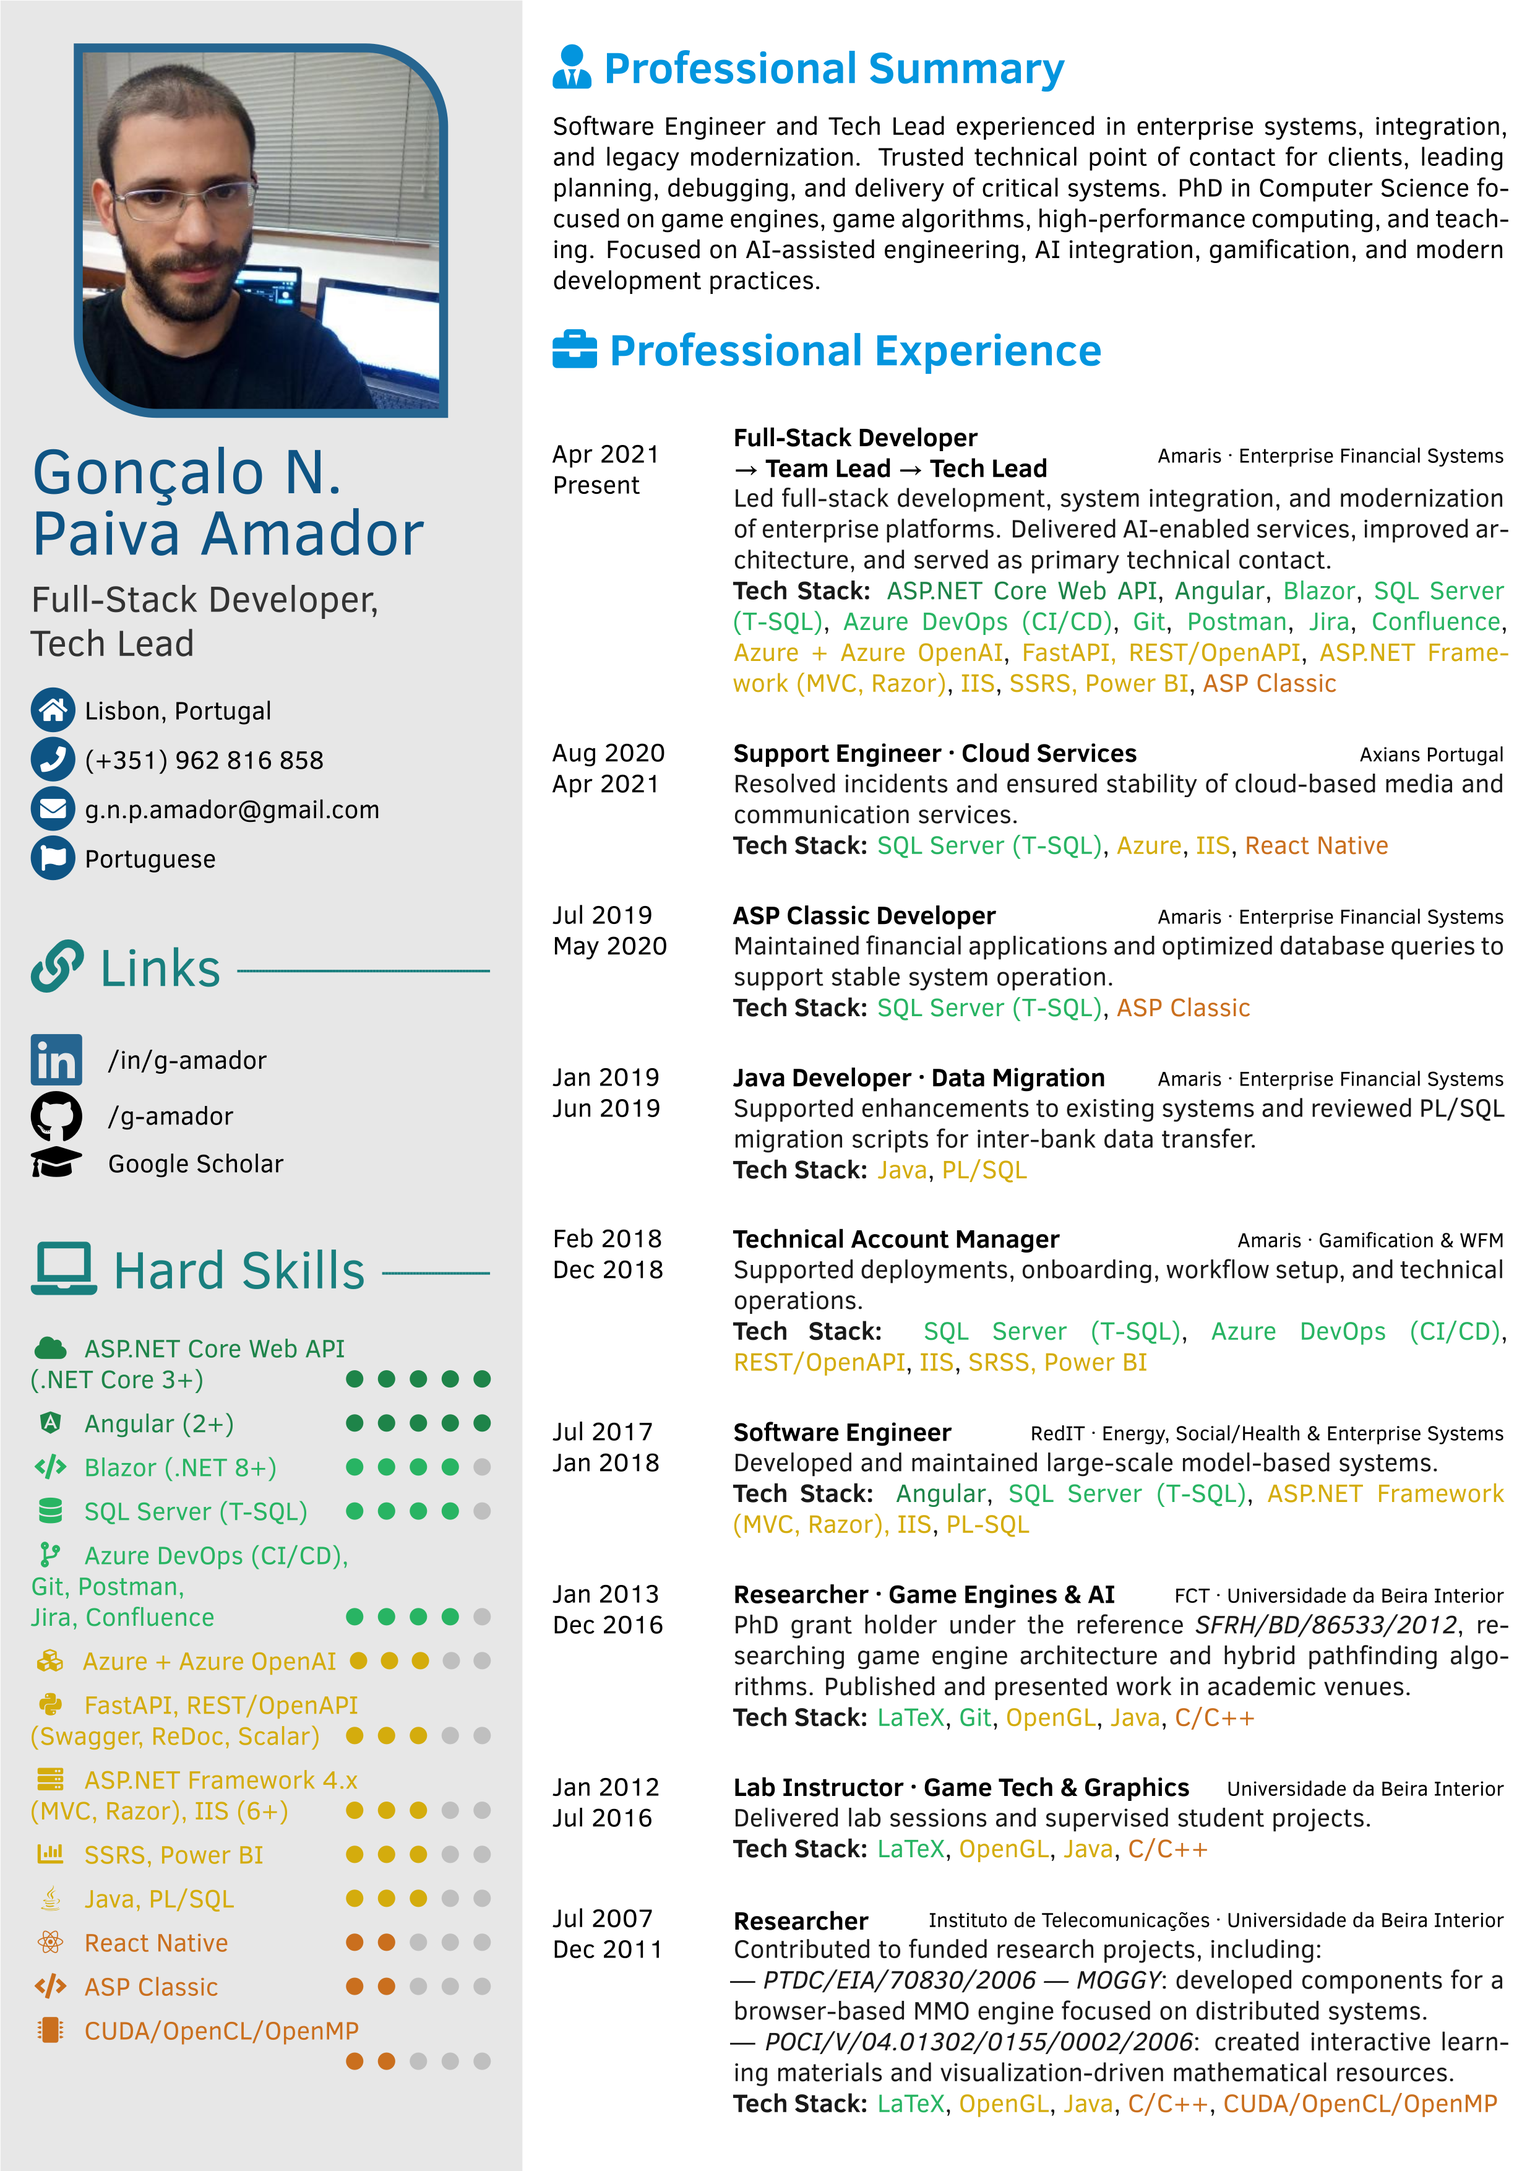
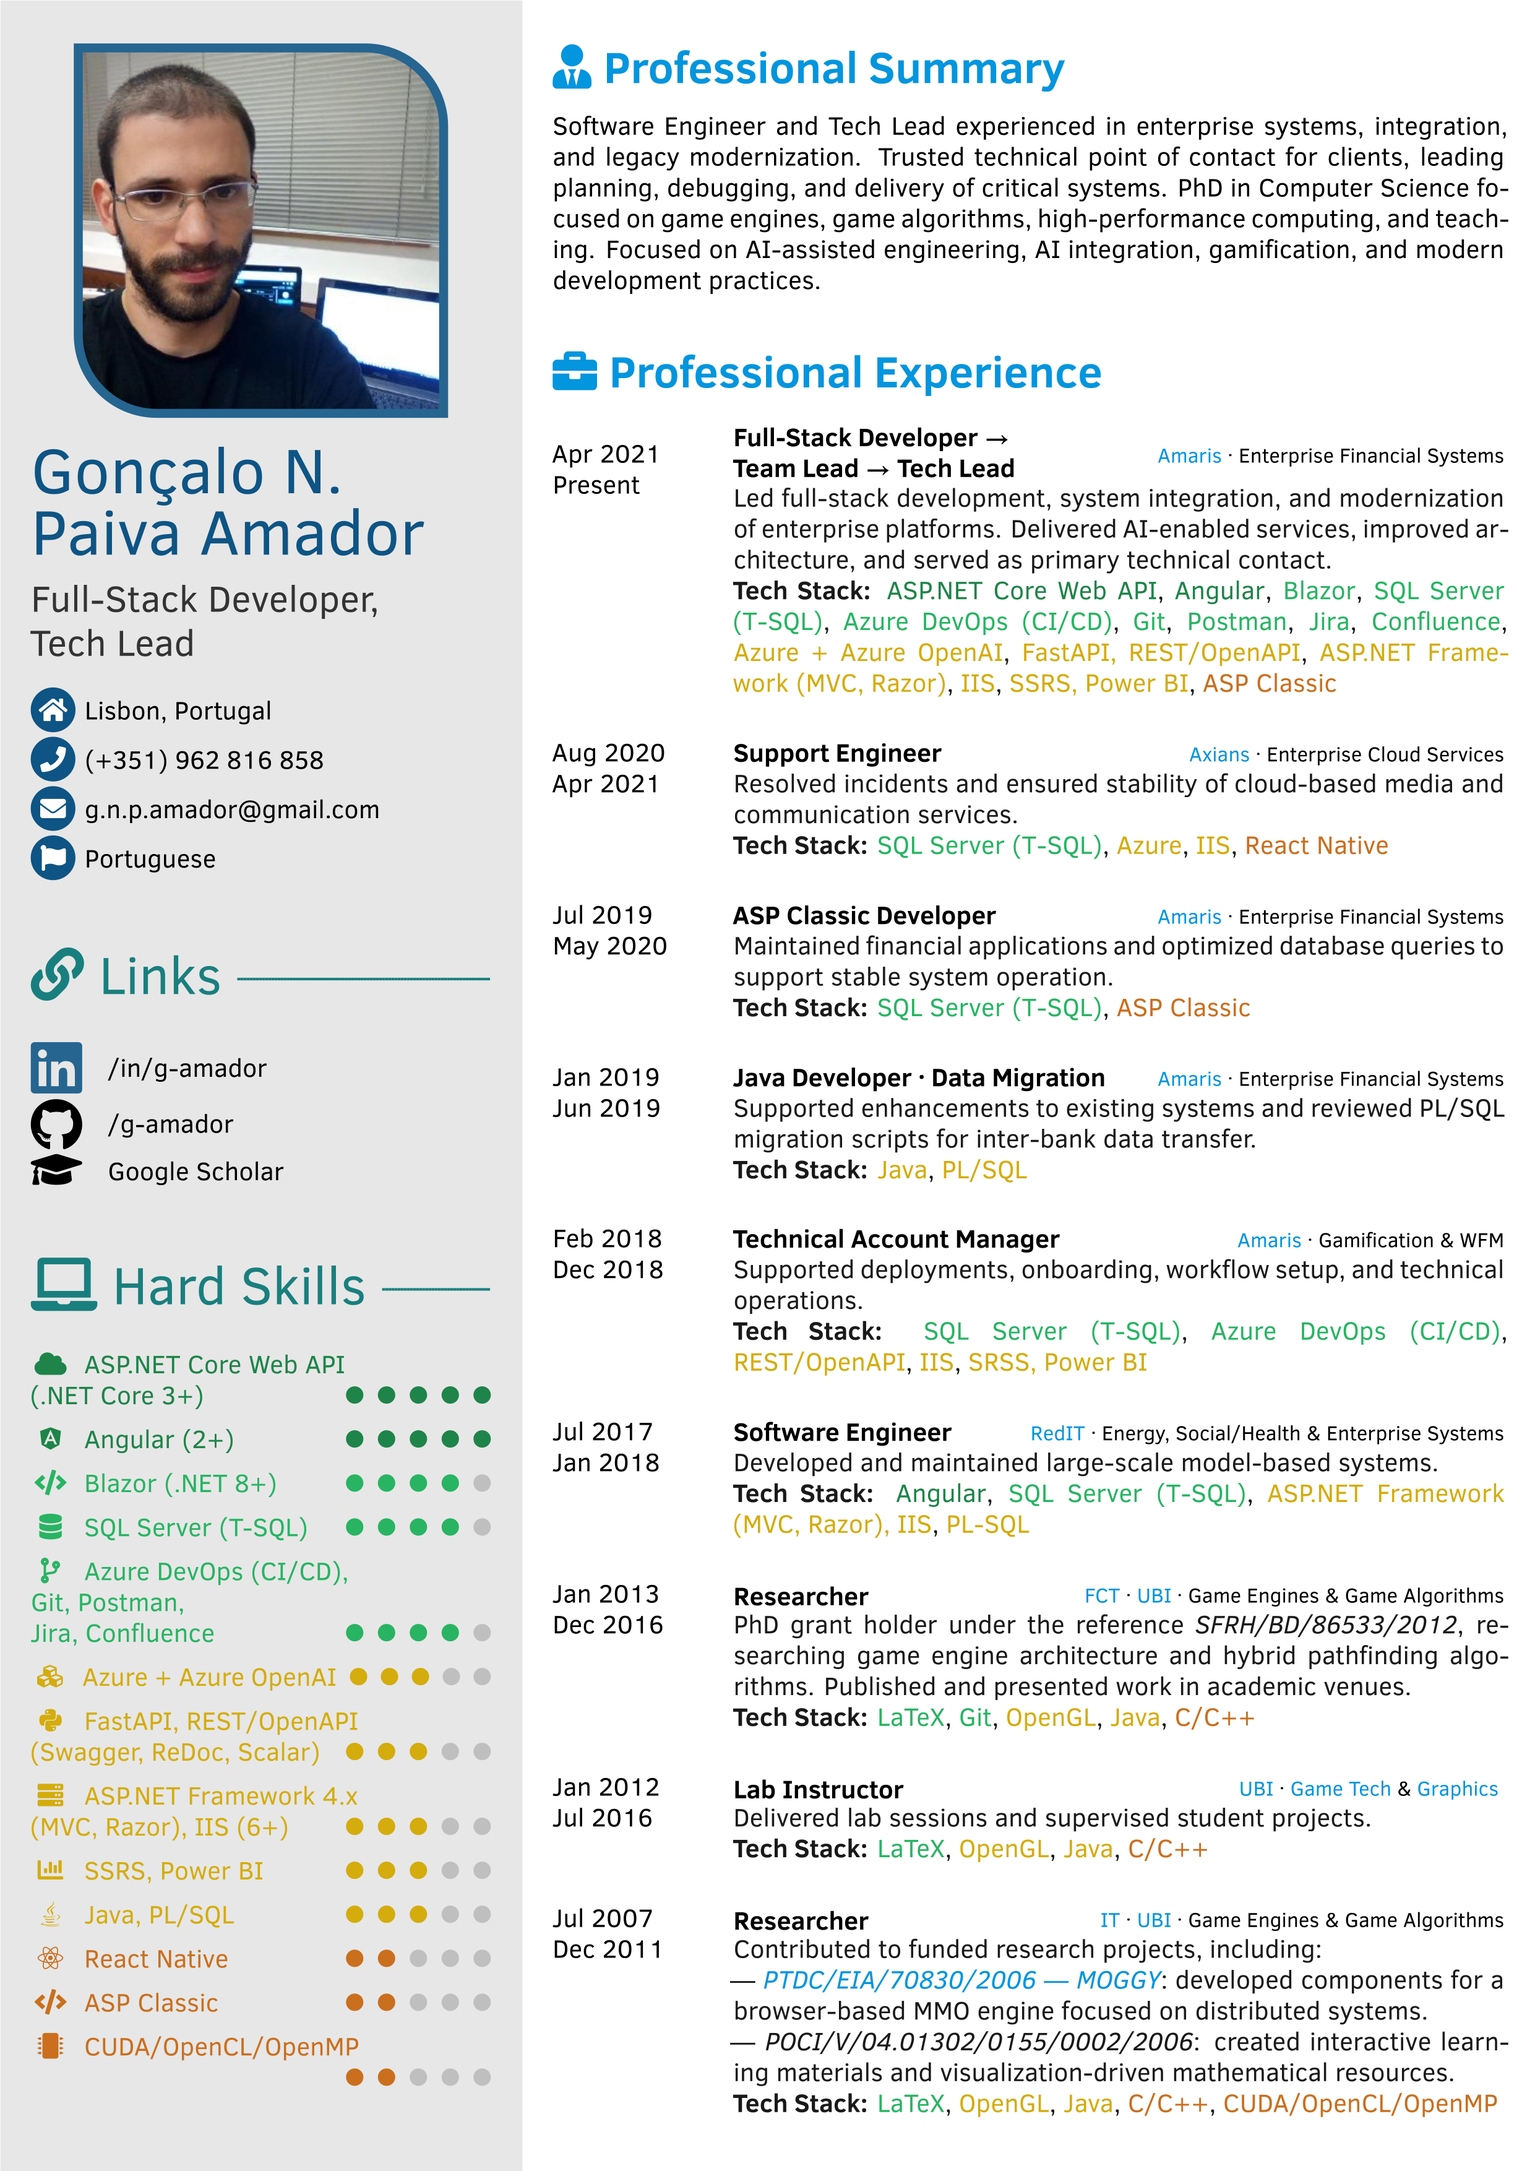
Minor adjustments in layout

diff --git a/cv.tex b/cv.tex
@@ -123,7 +123,7 @@
 % add more profile sections to sidebar on first page
 \addtofrontsidebar{
 	% social network accounts incl. proper hyperlinks
-	\profilesection{\vspace{0.5em}\faLink\;Links}
+	\profilesection{\vspace{0.65em}\faLink\;Links}
 		\begin{icontable}{2.0em}{1em}
 			\social{\faLinkedin}
 				{https://www.linkedin.com/in/g-amador}
@@ -136,7 +136,7 @@
 				{Google Scholar}
 		\end{icontable}	
 
-	\profilesection{\vspace{0.5em}\faLaptop\;Hard Skills}
+	\profilesection{\vspace{0.65em}\faLaptop\;Hard Skills}
         % --- 5 DOTS (skgreen) ---
         {
             \colorlet{iconcolor}{skgreen}
@@ -238,20 +238,20 @@
                        {4}[5]
         }
 
-    \profilesection{\vspace{0.5em}\faLanguage\;Languages}
+    \profilesection{\vspace{0.65em}\faLanguage\;Languages}
         \skill[0.1em]{\flag{PT.png}}{Portuguese\quad\quad\quad\quad\quad\; Native}
         \skill[0.1em]{\flag{GB.png}}{English\quad\quad\quad\quad\quad\quad\;\;\;\; C2}
         \skill[0.1em]{\flag{FR.png}}{French \quad\quad\quad\quad\quad\quad\;\;\;\; A2}
         \skill[0.1em]{\flag{ES.png}}{Spanish\quad\quad\quad\quad\quad\quad\;\;\; A2}
 
-    \profilesection{\vspace{0.5em}\faHeart\;Interests}
+    \profilesection{\vspace{0.65em}\faHeart\;Interests}
         \skill[0.1em]{\faGamepad}{Video games \& gamification}
         \skill[0.1em]{\faLaptopCode}{Personal software projects}
         \skill[0.1em]{\faMicrochip}{Personal hardware \& prototyping projects}
         \skill[0.1em]{\faMapMarked}{Cultural exploration (monuments \& travel)}
         \skill[0.1em]{\faWalking}{Long walks \& outdoor activities}
 
-    \profilesection{\vspace{0.5em}\faInfo\;Other Info}
+    \profilesection{\vspace{0.65em}\faInfo\;Other Info}
         \skill[0.1em]{\faBook}{\textbf{Research:} 13 publications \\(4 journals, 9 conferences)}
         \skill[0.1em]{\faMicrophone}{\textbf{Speaker:} 9 keynote talks at \\technical events}
         \skill[0.1em]{\faIdCard}{\textbf{Driving licence:} B1/B}
@@ -318,15 +318,15 @@
 \makefrontsidebar
 
 \cvsection{\faUserTie\;Professional Summary}
-Software Engineer and Tech Lead experienced in enterprise systems, integration, and legacy modernization. Trusted technical point of contact for clients, leading planning, debugging, and delivery of critical systems. PhD in Computer Science focused on game engines, game algorithms, high‑performance computing, and teaching. Focused on AI‑assisted engineering, AI integration, gamification, and modern development practices.
+Software Engineer and Tech Lead experienced in enterprise systems, integration, and legacy modernization. Trusted technical point of contact for clients, leading planning, debugging, and delivery of critical systems. PhD in Computer Science focused on game engines, game algorithms, high‑performance computing, and teaching. Focused on AI-assisted engineering, AI integration, gamification, and modern development practices.
 
-\cvsection{\faBriefcase\;Professional Experience}
+\cvsection{\vspace{0.5em}\faBriefcase\;Professional Experience\vspace{-0.5em}}
 \begin{cvtable}[3]
 
     % --- \href{https://amaris.com/}{Amaris} (merged progression) ---
     \cvitem{Apr 2021 \\ Present}
-        {Full-Stack Developer\\ → Team Lead → Tech Lead\vspace{0.3em}}
-        {\href{https://amaris.com/}{Amaris} · Enterprise Financial Systems}
+        {Full-Stack Developer → \\Team Lead → Tech Lead\vspace{0.3em}}
+        {\textcolor{cvsectioncolor}{\href{https://amaris.com/}{Amaris}} · Enterprise Financial Systems}
         {
          Led full‑stack development, system integration, and modernization of enterprise platforms. 
          Delivered AI‑enabled services, improved architecture, and served as primary technical contact.
@@ -349,8 +349,8 @@ Software Engineer and Tech Lead experienced in enterprise systems, integration, 
 
     % --- AXIANS ---
     \cvitem{Aug 2020 \\ Apr 2021}
-        {Support Engineer · Cloud Services}
-        {\href{https://www.axians.pt/}{Axians Portugal}}
+        {Support Engineer}
+        {\textcolor{cvsectioncolor}{\href{https://www.axians.pt/}{Axians}} · Enterprise Cloud Services}
         {Resolved incidents and ensured stability of cloud-based media and communication services.
          \newline \textbf{Tech Stack:} 
          {\color{sklimegreen}SQL Server (T‑SQL)},
@@ -361,7 +361,7 @@ Software Engineer and Tech Lead experienced in enterprise systems, integration, 
     % --- \href{https://amaris.com/}{Amaris} (ASP Classic) ---
     \cvitem{Jul 2019 \\ May 2020}
         {ASP Classic Developer}
-        {\href{https://amaris.com/}{Amaris} · Enterprise Financial Systems}
+        {\textcolor{cvsectioncolor}{\href{https://amaris.com/}{Amaris}} · Enterprise Financial Systems}
         {Maintained financial applications and optimized database queries to support stable system operation.
          \newline \textbf{Tech Stack:} 
          {\color{sklimegreen}SQL Server (T‑SQL)},
@@ -370,7 +370,7 @@ Software Engineer and Tech Lead experienced in enterprise systems, integration, 
     % --- \href{https://amaris.com/}{Amaris} (Java / PL-SQL) ---
     \cvitem{Jan 2019 \\ Jun 2019}
         {Java Developer · Data Migration}
-        {\href{https://amaris.com/}{Amaris} · Enterprise Financial Systems}
+        {\textcolor{cvsectioncolor}{\href{https://amaris.com/}{Amaris}} · Enterprise Financial Systems}
         {Supported enhancements to existing systems and reviewed PL/SQL migration scripts for inter‑bank data transfer.
          \newline \textbf{Tech Stack:} 
          {\color{skyellow}Java}, 
@@ -379,7 +379,7 @@ Software Engineer and Tech Lead experienced in enterprise systems, integration, 
     % --- TECHNICAL ACCOUNT MANAGER ---
     \cvitem{Feb 2018 \\ Dec 2018}
         {Technical Account Manager}
-        {\href{https://amaris.com/}{Amaris} · Gamification \& WFM}
+        {\textcolor{cvsectioncolor}{\href{https://amaris.com/}{Amaris}} · Gamification \& WFM}
         {Supported deployments, onboarding, workflow setup, and technical operations.
          \newline \textbf{Tech Stack:} 
          {\color{sklimegreen}SQL Server (T‑SQL)}, 
@@ -391,7 +391,7 @@ Software Engineer and Tech Lead experienced in enterprise systems, integration, 
     % --- REDIT ---
     \cvitem{Jul 2017 \\ Jan 2018}
         {Software Engineer}
-        {\href{https://conkord.com/}{RedIT} · Energy, Social/Health \& Enterprise Systems}
+        {\textcolor{cvsectioncolor}{\href{https://conkord.com/}{RedIT}} · Energy, Social/Health \& Enterprise Systems}
         {Developed and maintained large‑scale model‑based systems.
          \newline \textbf{Tech Stack:} 
          {\color{skgreen}Angular}, 
@@ -401,8 +401,8 @@ Software Engineer and Tech Lead experienced in enterprise systems, integration, 
 
     % --- PHD RESEARCH ---
     \cvitem{Jan 2013 \\ Dec 2016}
-        {Researcher · Game Engines \& AI}
-        {\href{https://www.fct.pt/}{FCT} · \href{https://www.ubi.pt/}{Universidade da Beira Interior}}
+        {Researcher}
+        {\textcolor{cvsectioncolor}{\href{https://www.fct.pt/}{FCT}} · \textcolor{cvsectioncolor}{\href{https://www.ubi.pt/}{UBI}} · Game Engines \& Game Algorithms}
         {PhD grant holder under the reference 
          \textit{SFRH/BD/86533/2012}, researching game engine architecture and hybrid pathfinding algorithms.
          Published and presented work in academic venues.
@@ -415,8 +415,10 @@ Software Engineer and Tech Lead experienced in enterprise systems, integration, 
 
     % --- LAB INSTRUCTOR ---
     \cvitem{Jan 2012 \\ Jul 2016}
-        {Lab Instructor · \href{https://www.di.ubi.pt/~agomes/tjv/}{Game Tech} \& \href{https://www.di.ubi.pt/~agomes/cg/}{Graphics}}
-        {\href{https://www.ubi.pt/}{Universidade da Beira Interior}}
+        {Lab Instructor}
+        {\textcolor{cvsectioncolor}{\href{https://www.ubi.pt/}{UBI}} · \textcolor{cvsectioncolor}{\href{https://www.di.ubi.pt/~agomes/tjv/}{Game Tech}} \& 
+        \textcolor{cvsectioncolor}{\href{https://www.di.ubi.pt/~agomes/cg/}{Graphics}}
+        }
         {Delivered lab sessions and supervised student projects.
          \newline \textbf{Tech Stack:} 
          {\color{sklimegreen}LaTeX},
@@ -428,9 +430,10 @@ Software Engineer and Tech Lead experienced in enterprise systems, integration, 
     % --- EDUCATIONAL TECH ---
     \cvitem{Jul 2007 \\ Dec 2011}
         {Researcher}
-        {\href{https://www.it.pt/}{Instituto de Telecomunicações} · \href{https://www.ubi.pt/}{Universidade da Beira Interior}}
+        {\textcolor{cvsectioncolor}{\href{https://www.it.pt/}{IT}} · 
+        \textcolor{cvsectioncolor}{\href{https://www.ubi.pt/}{UBI}} · Game Engines \& Game Algorithms}
         {Contributed to funded research projects, including:
-         \newline — \textit{\href{https://www.it.pt/Projects/Index/804}{PTDC/EIA/70830/2006 — MOGGY}}: developed components for a browser‑based MMO engine focused on distributed systems.
+         \newline — \textcolor{cvsectioncolor}{\textit{\href{https://www.it.pt/Projects/Index/804}{PTDC/EIA/70830/2006 — MOGGY}}}: developed components for a browser‑based MMO engine focused on distributed systems.
          \newline — \textit{POCI/V/04.01302/0155/0002/2006}: created interactive learning materials and visualization‑driven mathematical resources.
          \newline \textbf{Tech Stack:}
          {\color{sklimegreen}LaTeX},         
@@ -450,17 +453,17 @@ Software Engineer and Tech Lead experienced in enterprise systems, integration, 
 % 	left=\leftrightmargin
 % }
 
-\cvsection{\faGraduationCap\;Education}
+\cvsection{\faGraduationCap\;Education\vspace{-0.7em}}
 \begin{cvtable}[3]
 
     % --- PhD ---
     \cvitem{Jan 2013 \\ Jun 2017}
         %{\href{https://www.di.ubi.pt/Cursos/dei/}{PhD in Computer Science and Engineering} (18/20)}
-        {\href{https://www.di.ubi.pt/Cursos/dei/}{PhD in Computer Science} (18/20)}
-        {\href{https://www.ubi.pt/}{Universidade da Beira Interior}}
+        {\textcolor{cvsectioncolor}{\href{https://www.di.ubi.pt/Cursos/dei/}{PhD in Computer Science}} (18/20)}
+        {\textcolor{cvsectioncolor}{\href{https://www.ubi.pt/}{UBI}}}
         {
             \textbf{Thesis:} Influence-based Motion Planning Algorithms for Games\\
-            \textbf{Supervisor:} \href{http://www.di.ubi.pt/~agomes/}{Professor Abel Gomes}\\
+            \textbf{Supervisor:} \textcolor{cvsectioncolor}{\href{http://www.di.ubi.pt/~agomes/}{Professor Abel Gomes}}\\
             Developed a modular game engine (JOT) and integrated influence-map techniques with pathfinding algorithms, contributing research, algorithm design, engine development, and scientific writing.
             \newline \textbf{Tech Stack:}
             {\color{sklimegreen}LaTeX},
@@ -474,10 +477,10 @@ Software Engineer and Tech Lead experienced in enterprise systems, integration, 
     \cvitem{Sep 2010 \\ Jul 2011}
         %{Bachelor's Degree in Information Technologies and Systems (15/20)}
         {BSc in Information Systems \& Technologies (15/20)\vspace{0.3em}}
-        {\href{https://www.ubi.pt/}{Universidade da Beira Interior}}
+        {\textcolor{cvsectioncolor}{\href{https://www.ubi.pt/}{UBI}}}
         {
             \textbf{Final Project:} Seamless zoning algorithms for MMOGs over a Grid\\
-            \textbf{Supervisor:} \href{http://www.di.ubi.pt/~agomes/}{Professor Abel Gomes}\\
+            \textbf{Supervisor:} \textcolor{cvsectioncolor}{\href{http://www.di.ubi.pt/~agomes/}{Professor Abel Gomes}}\\
             Developed scene‑management techniques for a Java‑based grid‑computing game, contributing research, implementation, evaluation of grid frameworks, and reporting.
             \newline \textbf{Tech Stack:}
             {\color{sklimegreen}LaTeX},
@@ -489,11 +492,11 @@ Software Engineer and Tech Lead experienced in enterprise systems, integration, 
     % --- Master's Degree ---
     \cvitem{Sep 2007 \\ Oct 2009}
         %{\href{https://www.di.ubi.pt/Cursos/mei/}{MSc in Computer Science and Engineering} (18/20)}
-        {\href{https://www.di.ubi.pt/Cursos/mei/}{MSc in Computer Science} (18/20)}
-        {\href{https://www.ubi.pt/}{Universidade da Beira Interior}}
+        {\textcolor{cvsectioncolor}{\href{https://www.di.ubi.pt/Cursos/mei/}{MSc in Computer Science}} (18/20)}
+        {\textcolor{cvsectioncolor}{\href{https://www.ubi.pt/}{UBI}}}
         {
             \textbf{Thesis:} Real-Time 3D Rendering of Water using CUDA\\
-            \textbf{Supervisor:} \href{http://www.di.ubi.pt/~agomes/}{Professor Abel Gomes}\\
+            \textbf{Supervisor:} \textcolor{cvsectioncolor}{\href{http://www.di.ubi.pt/~agomes/}{Professor Abel Gomes}}\\
             Extended a 2D fluid‑simulation algorithm to 3D using GPU techniques, contributing research, CUDA implementation, and scientific writing and presentations.
             \newline \textbf{Tech Stack:}
             {\color{sklimegreen}LaTeX},
@@ -506,8 +509,8 @@ Software Engineer and Tech Lead experienced in enterprise systems, integration, 
     % --- Bachelor's Degree (CSE) ---
     \cvitem{Sep 2001 \\ Jul 2007}
         %{\href{https://www.di.ubi.pt/Cursos/lei/}{BSc in Computer Science and Engineering}}
-        {\href{https://www.di.ubi.pt/Cursos/lei/}{BSc in Computer Science} (13/20)}
-        {\href{https://www.ubi.pt/}{Universidade da Beira Interior}}
+        {\textcolor{cvsectioncolor}{\href{https://www.di.ubi.pt/Cursos/lei/}{BSc in Computer Science}} (13/20)}
+        {\textcolor{cvsectioncolor}{\href{https://www.ubi.pt/}{UBI}}}
         {
             \newline \textbf{Tech Stack:}
             {\color{sklimegreen}SQL Server (T‑SQL)}, 
@@ -522,12 +525,12 @@ Software Engineer and Tech Lead experienced in enterprise systems, integration, 
     % --- High School ---
     \cvitem{Sept 1998 \\ Jul 2001}
         {Professional High-School Degree in Electrotechnics and Electronics}
-        {\href{https://site.espeniche.pt/}{High‑School of Peniche}}
+        {\textcolor{cvsectioncolor}{\href{https://site.espeniche.pt/}{High‑School of Peniche}}}
         {\vspace{0.5cm}}
 
 \end{cvtable}
 
-\cvsection{\faAward\;Technical Certifications}
+\cvsection{\vspace{0.5em}\faAward\;Technical Certifications}
 \begin{cvtable}[3]
 
   % ---------- 2023 to 2026 ----------
